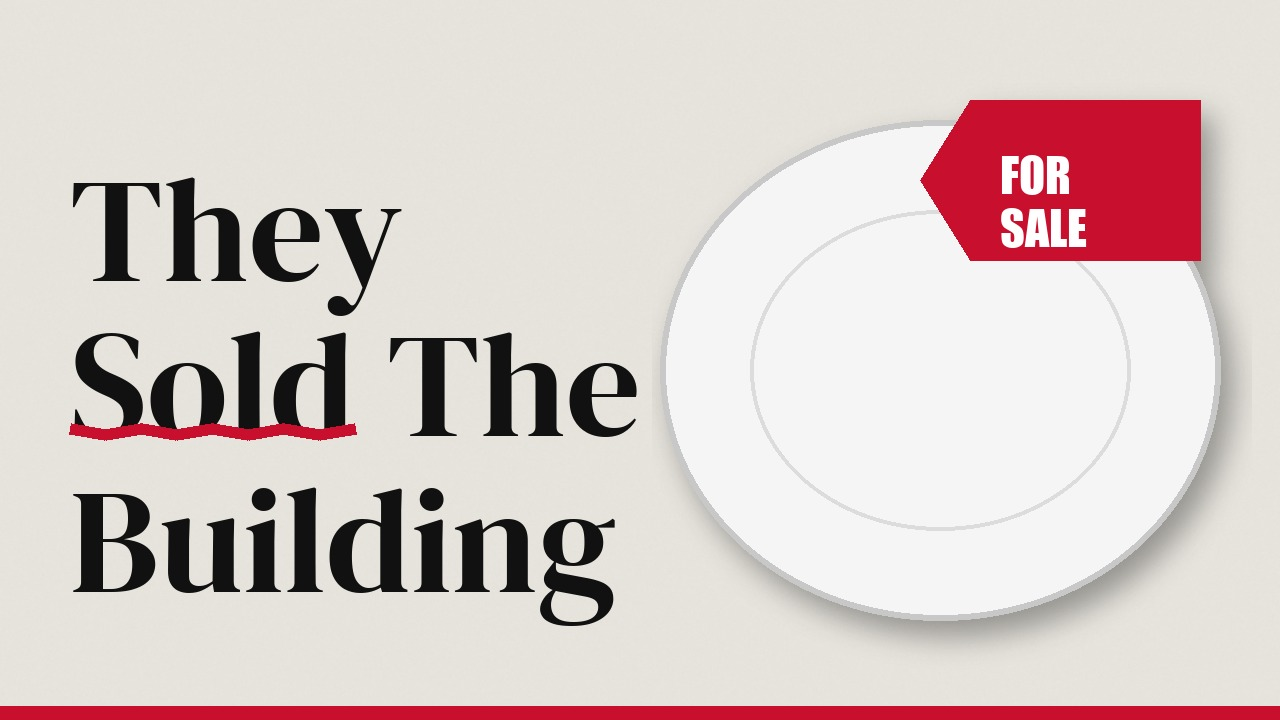
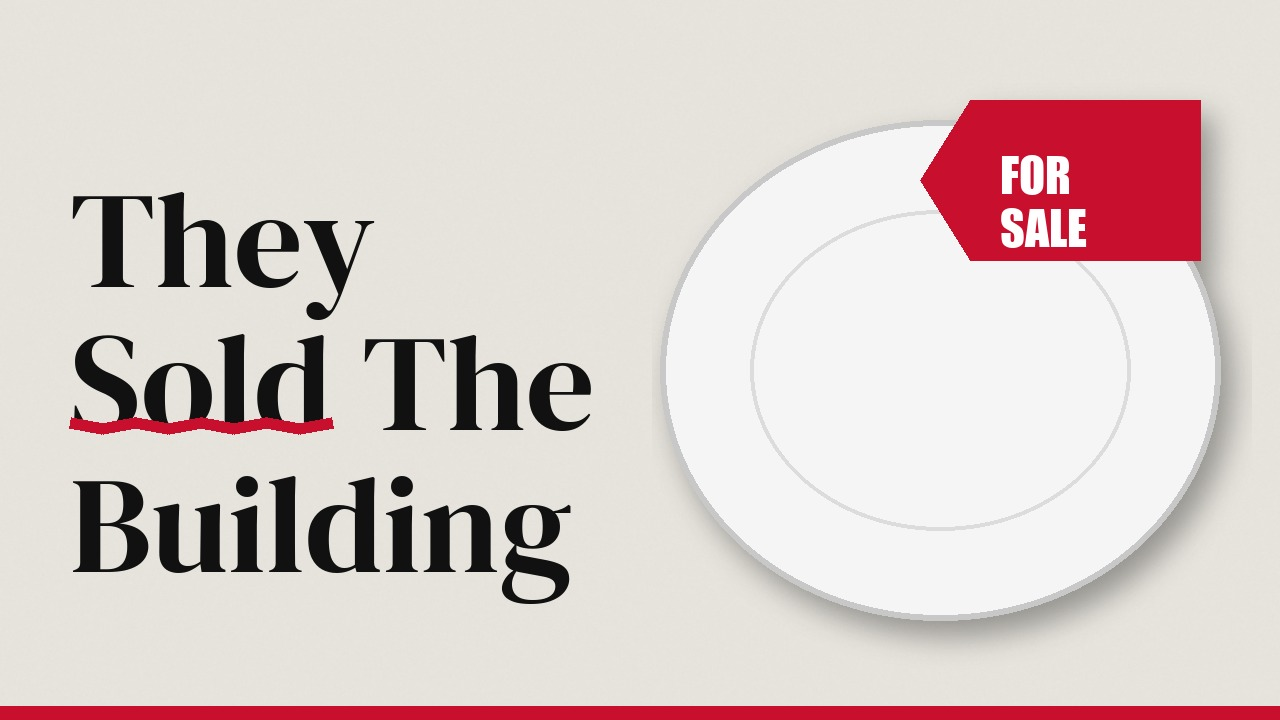
Pilot 001: final thumbnails T1-T3; make_thumb crop, taped note, text fits beside hero

Changed region(s): [[0.0312, 0.2444, 0.5, 0.6111], [0.0625, 0.6417, 0.5, 0.8861]]

diff --git a/MA Channel/tools/thumbnails/make_thumb.py b/MA Channel/tools/thumbnails/make_thumb.py
@@ -15,6 +15,9 @@ Spec fields:
     arrow:    "down" | "up" | "none"         (B only, default "down")
     hero:     path to a PNG/JPG (transparent PNG cut-outs look best); optional
     hero_side: "right" | "left"              (default right)
+    hero_crop: [x0, y0, x1, y1]              (optional, pixels in the source image)
+    note:     {"text": "RENT DUE", "x": 0.4, "y": 0.7, "w": 0.3}   (optional paper notice taped on the hero;
+              x/y = center, w = width, all relative to the cropped hero)
     out:      output path
 """
 import json
@@ -56,10 +59,36 @@ def paper_texture():
     return Image.blend(img, Image.merge("RGB", (noise,) * 3), 0.06)
 
 
-def place_hero(canvas, hero_path, side, max_w, max_h):
+def taped_note(hero, note):
+    w = int(hero.width * note.get("w", 0.3))
+    h = int(w * 0.62)
+    sheet = Image.new("RGBA", (w, h), (248, 246, 240, 255))
+    d = ImageDraw.Draw(sheet)
+    d.rectangle([0, 0, w - 1, h - 1], outline=(200, 195, 185), width=2)
+    fnt, lines, size = fit_text(d, note["text"].upper(), "condensed", int(w * 0.82), int(h * 0.75), start=int(h * 0.6), min_size=10)
+    y = (h - len(lines) * size * 1.05) / 2
+    for line in lines:
+        d.text(((w - d.textlength(line, font=fnt)) / 2, y), line, font=fnt, fill=RED)
+        y += size * 1.05
+    tape = Image.new("RGBA", (int(w * 0.35), int(h * 0.16)), (235, 225, 190, 190))
+    sheet.alpha_composite(tape, (int(w * 0.325), 0))
+    sheet = sheet.rotate(-4, expand=True, resample=Image.BICUBIC)
+    x = int(hero.width * note.get("x", 0.5) - sheet.width / 2)
+    y = int(hero.height * note.get("y", 0.5) - sheet.height / 2)
+    shadow = Image.new("RGBA", sheet.size, (0, 0, 0, 0))
+    shadow.putalpha(sheet.getchannel("A").point(lambda a: int(a * 0.4)))
+    hero.alpha_composite(shadow.filter(ImageFilter.GaussianBlur(6)), (x + 6, y + 8))
+    hero.alpha_composite(sheet, (x, y))
+
+
+def place_hero(canvas, hero_path, side, max_w, max_h, crop=None, note=None):
     if not hero_path:
-        return
+        return 0
     hero = Image.open(hero_path).convert("RGBA")
+    if crop:
+        hero = hero.crop(tuple(crop))
+    if note:
+        taped_note(hero, note)
     hero.thumbnail((max_w, max_h), Image.LANCZOS)
     x = W - hero.width - 40 if side == "right" else 40
     y = (H - hero.height) // 2
@@ -67,6 +96,7 @@ def place_hero(canvas, hero_path, side, max_w, max_h):
     shadow.putalpha(hero.getchannel("A").point(lambda a: int(a * 0.35)))
     canvas.paste(shadow.filter(ImageFilter.GaussianBlur(14)), (x + 12, y + 16), shadow.filter(ImageFilter.GaussianBlur(14)))
     canvas.paste(hero, (x, y), hero)
+    return hero.width
 
 
 def wrap(draw, text, fnt, max_w):
@@ -103,10 +133,11 @@ def hand_underline(draw, x0, x1, y, width=12):
 def template_a(spec):
     img = paper_texture().convert("RGBA")
     side = spec.get("hero_side", "right")
-    place_hero(img, spec.get("hero"), side, 640, 620)
+    hero_w = place_hero(img, spec.get("hero"), side, 640, 620, spec.get("hero_crop"), spec.get("note"))
     d = ImageDraw.Draw(img)
-    text_x = 70 if side == "right" else W - 650
-    fnt, lines, size = fit_text(d, spec["text"], "serif", 580, 520)
+    text_w = min(580, W - hero_w - 40 - 70 - 30)
+    text_x = 70 if side == "right" else W - 70 - text_w
+    fnt, lines, size = fit_text(d, spec["text"], "serif", text_w, 520)
     y = (H - len(lines) * size * 1.05) / 2
     target = (spec.get("underline") or "").lower()
     for line in lines:
@@ -140,7 +171,7 @@ def template_b(spec):
     ImageDraw.Draw(glow).ellipse([W * 0.45, -200, W + 300, H + 200], fill=(120, 10, 20, 150))
     img = Image.alpha_composite(img, glow.filter(ImageFilter.GaussianBlur(120)))
     side = spec.get("hero_side", "right")
-    place_hero(img, spec.get("hero"), side, 620, 640)
+    place_hero(img, spec.get("hero"), side, 620, 640, spec.get("hero_crop"), spec.get("note"))
     d = ImageDraw.Draw(img)
     text_x = 60 if side == "right" else W - 660
     top = 70
